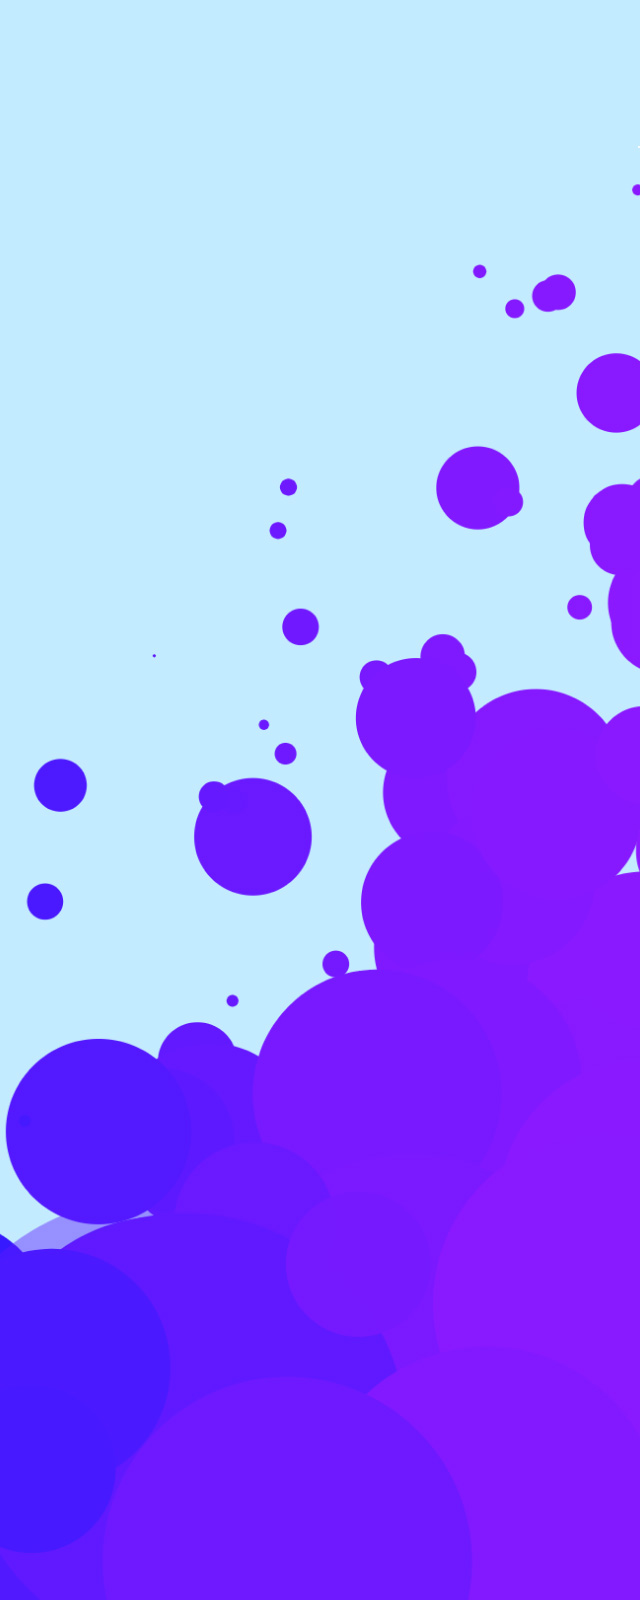
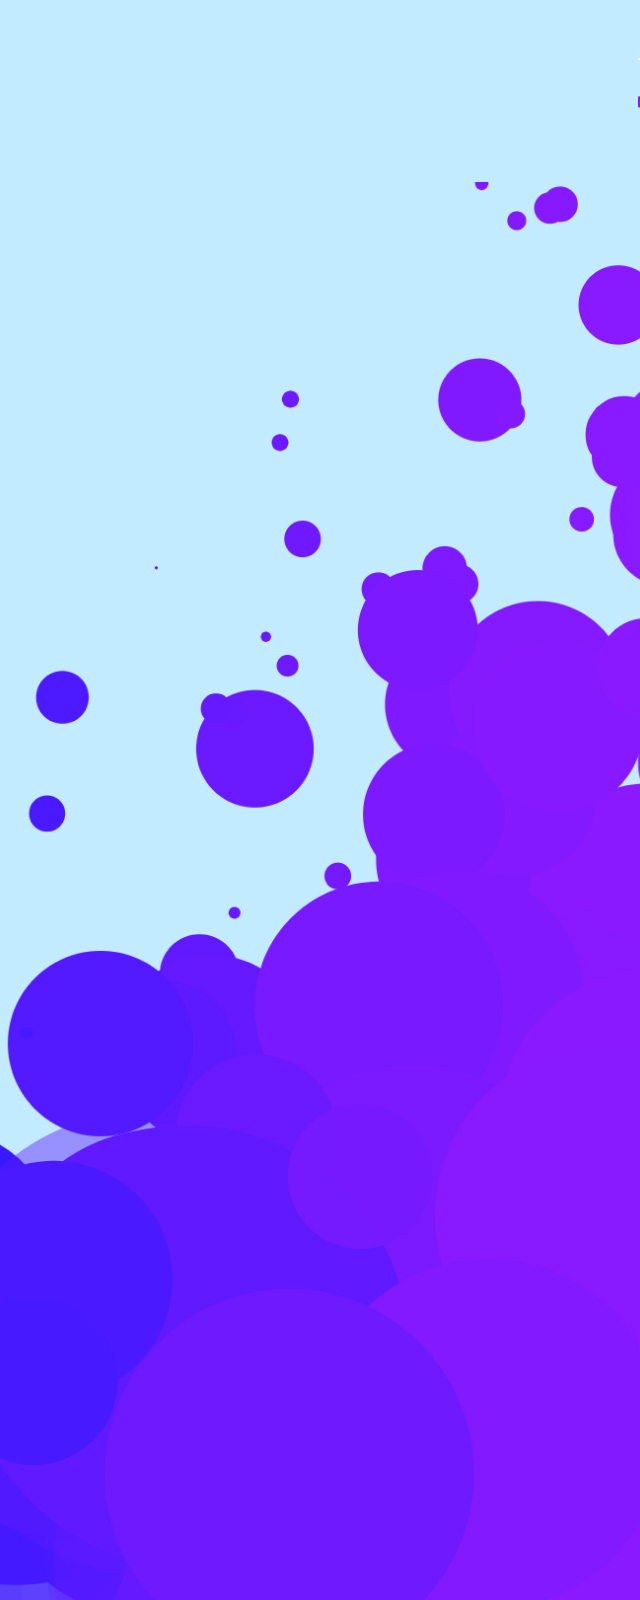
responsive

diff --git a/index.html b/index.html
@@ -13,12 +13,15 @@
   <link rel="stylesheet" type="text/css" href="css/style.css">
   <script type='text/javascript'>
   $(document).ready(function() {
-    console.log(window.scrollX,window.scrollY);
-    $('html, body, *').mousewheel(function(e, delta) {
-      console.log(e.deltaX, e.deltaY, e.deltaFactor,window.scrollX,window.scrollY);
-      // this.scrollLeft -= (e.deltaX);
-      window.scroll(window.scrollX + e.deltaY * 5, window.scrollY);
-      // e.preventDefault();
+    $('html, body, *').mousewheel(function(e) {
+      console.log(e.deltaX, e.deltaY, e.deltaFactor);
+      this.scrollLeft += e.deltaX - e.deltaY;
+      // this.scrollTop = 0;
+      if ( e && e.preventDefault ){
+        e.preventDefault();
+      } else {
+        window.event.returnValue = false;  //IE
+      }
     });
 });
   </script>
@@ -27,7 +30,7 @@
 
   <div class="wrapper">
 
-    <section class="section-intro">
+    <section class="section-intro" id="intro">
       <div class="content">
 
         <p class="intro-name font-overview-subtitle">HAN LI</p>
@@ -123,7 +126,7 @@
       </svg>
       <div class="content">
         <h1 class="font-section-title">echo</h1>
-        <p class="font-section-desc">As the Design Lead for this start-up project, I led not only UI design but also product design on the early stage, and worked on building design team.</p>
+        <p class="font-section-desc">As design lead for this start-up project, I led not only UI design but also product design on the early stage, worked on building design team.</p>
       </div>
     </section>
 
@@ -285,7 +288,7 @@
       </svg>
       <div class="content">
         <h1 class="font-section-title">WeChat</h1>
-        <p class="font-section-desc">Worked as a UI designer, responsible for WeChat iOS  redesign, WeChat Reader, WeChat TV, optimizting Design to Develop workflow, and more.</p>
+        <p class="font-section-desc">Worked as UI designer, responsible for WeChat iOS redesign, Reader, hardware projects, optimizting design workflow, and more.</p>
       </div>
     </section>
 
@@ -366,7 +369,7 @@
       </svg>
       <div class="content">
         <h1 class="font-section-title">iBuilding</h1>
-        <p class="font-section-desc">As both product and visual designer for commercial property renting service, I work on internal tools and took part in strategy making.</p>
+        <p class="font-section-desc">I was product and UI designer at iBuilding, working on office renting service.</p>
       </div>
     </section>
 

diff --git a/css/style.css b/css/style.css
@@ -84,6 +84,7 @@ img {
 .section-intro .content {
   max-width   : 70rem;
   margin-left : 10vw;
+  margin-top: -5rem;
   flex        : 1 0 auto;
   transform   : translateZ(5rem);
 }
@@ -94,7 +95,7 @@ img {
 
 .intro-os {
   position  : relative;
-  left      : 12rem;
+  /* left      : 12rem; */
   color     : var(--COLOR-RED);
   transform : rotate(-5deg);
 }
@@ -107,7 +108,7 @@ img {
 .hover-cat {
   z-index    : 20;
   position   : absolute;
-  right      : 0rem;
+  left     : 0rem;
   bottom     : -10rem;
   width      : 27rem;
   height     : 37rem;
@@ -243,6 +244,7 @@ img {
   background-image : url('../images/cover-ddz.jpg');
   background-color : #F8D797;
   background-size  : cover;
+  flex-basis       : 32rem;
 }
 
 .hover-ddz {
@@ -331,7 +333,7 @@ img {
 .section-contact {
   display         : flex;
   position        : relative;
-  flex            : 1 0 95vw;
+  flex            : 1 0 90vw;
   flex-direction  : row-reverse;
   justify-content : flex-end;
 }
@@ -522,30 +524,40 @@ img {
 
 /* ========== Scaling ========== */
 
-@media
-  screen
-  and (max-height : 1024px) {
+@media (max-height : 800px) {
+    html {
+      font-size : 52%;
+    }
+}
+
+
+@media (max-height : 1024px) {
   :root {
     --SIZE-SECTION-HEIGHT : 80vh;
   }
+
 }
 
-@media
-  screen
-  and (max-width : 1280px) {
+@media (min-width: 761px) and (max-width: 1280px) {
   html {
     font-size : 52%;
   }
 
   .section-intro .content {
-    max-width : 60rem;
-    transform : translateZ(0rem);
+    max-width : 58rem;
+  }
+  #sketch-seeking {
+    margin-left : -25vw;
+  }
+  .dots {
+    top      : 10.5rem;
+  }
+
+  .qrcode {
+    top      : 15.1rem;
   }
 }
-
-@media
-  screen
-  and (max-width : 500px) {
+@media (min-width: 320px) and (max-width: 760px){
   :root {
     --SIZE-SECTION-HEIGHT : 80vh;
     --SIZE-SECTION-WIDTH  : 100vw;

diff --git a/js/sketch-seeking.js b/js/sketch-seeking.js
@@ -1,6 +1,6 @@
 p5.disableFriendlyErrors = true;
 
-var play_it = 1,first_time = 1;
+var play_it = 1;
 var time = 0;
 var inc = 0.005;
 var xoff = 0.1;
@@ -14,8 +14,9 @@ function setup() {
   var canvas = createCanvas(container.width, container.height);
   canvas.parent('sketch-seeking');
 
-  canvas.mouseOver(checkState);
-  canvas.mouseOut(checkState);
+  var c = select('#intro');
+  c.mouseOver(checkState);
+  c.mouseOut(checkState);
 
   frameRate(60);
   angleMode(DEGREES);
